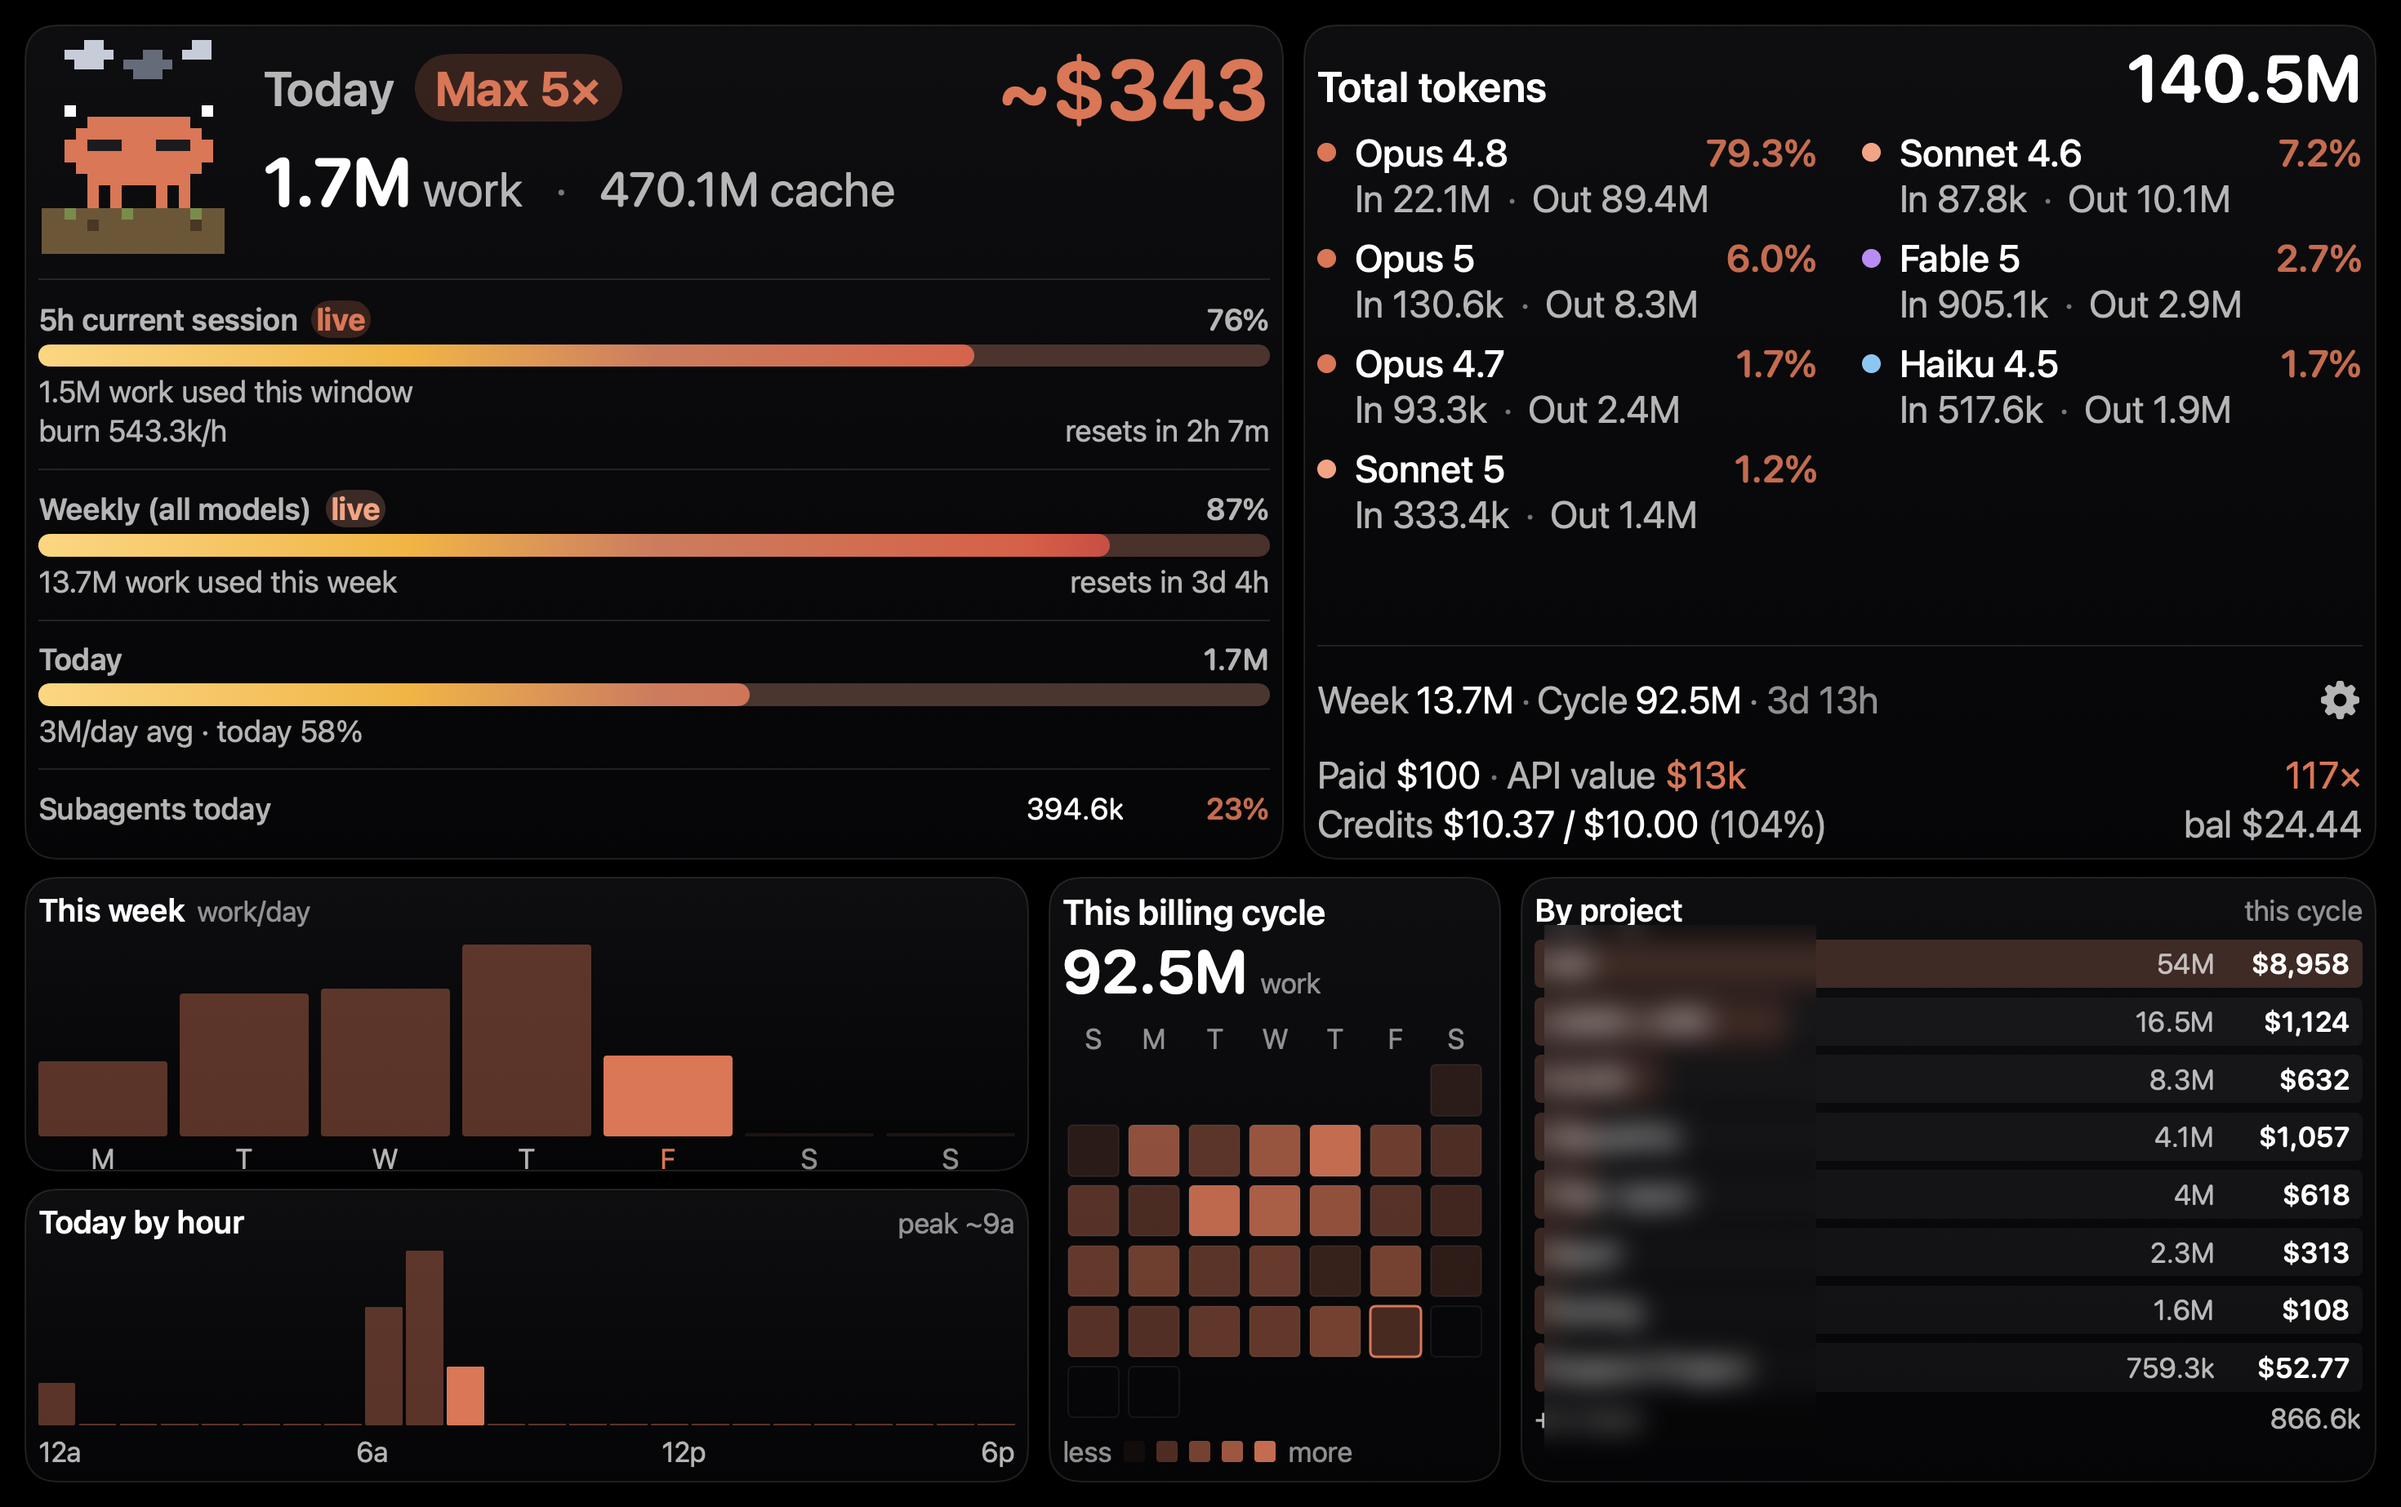
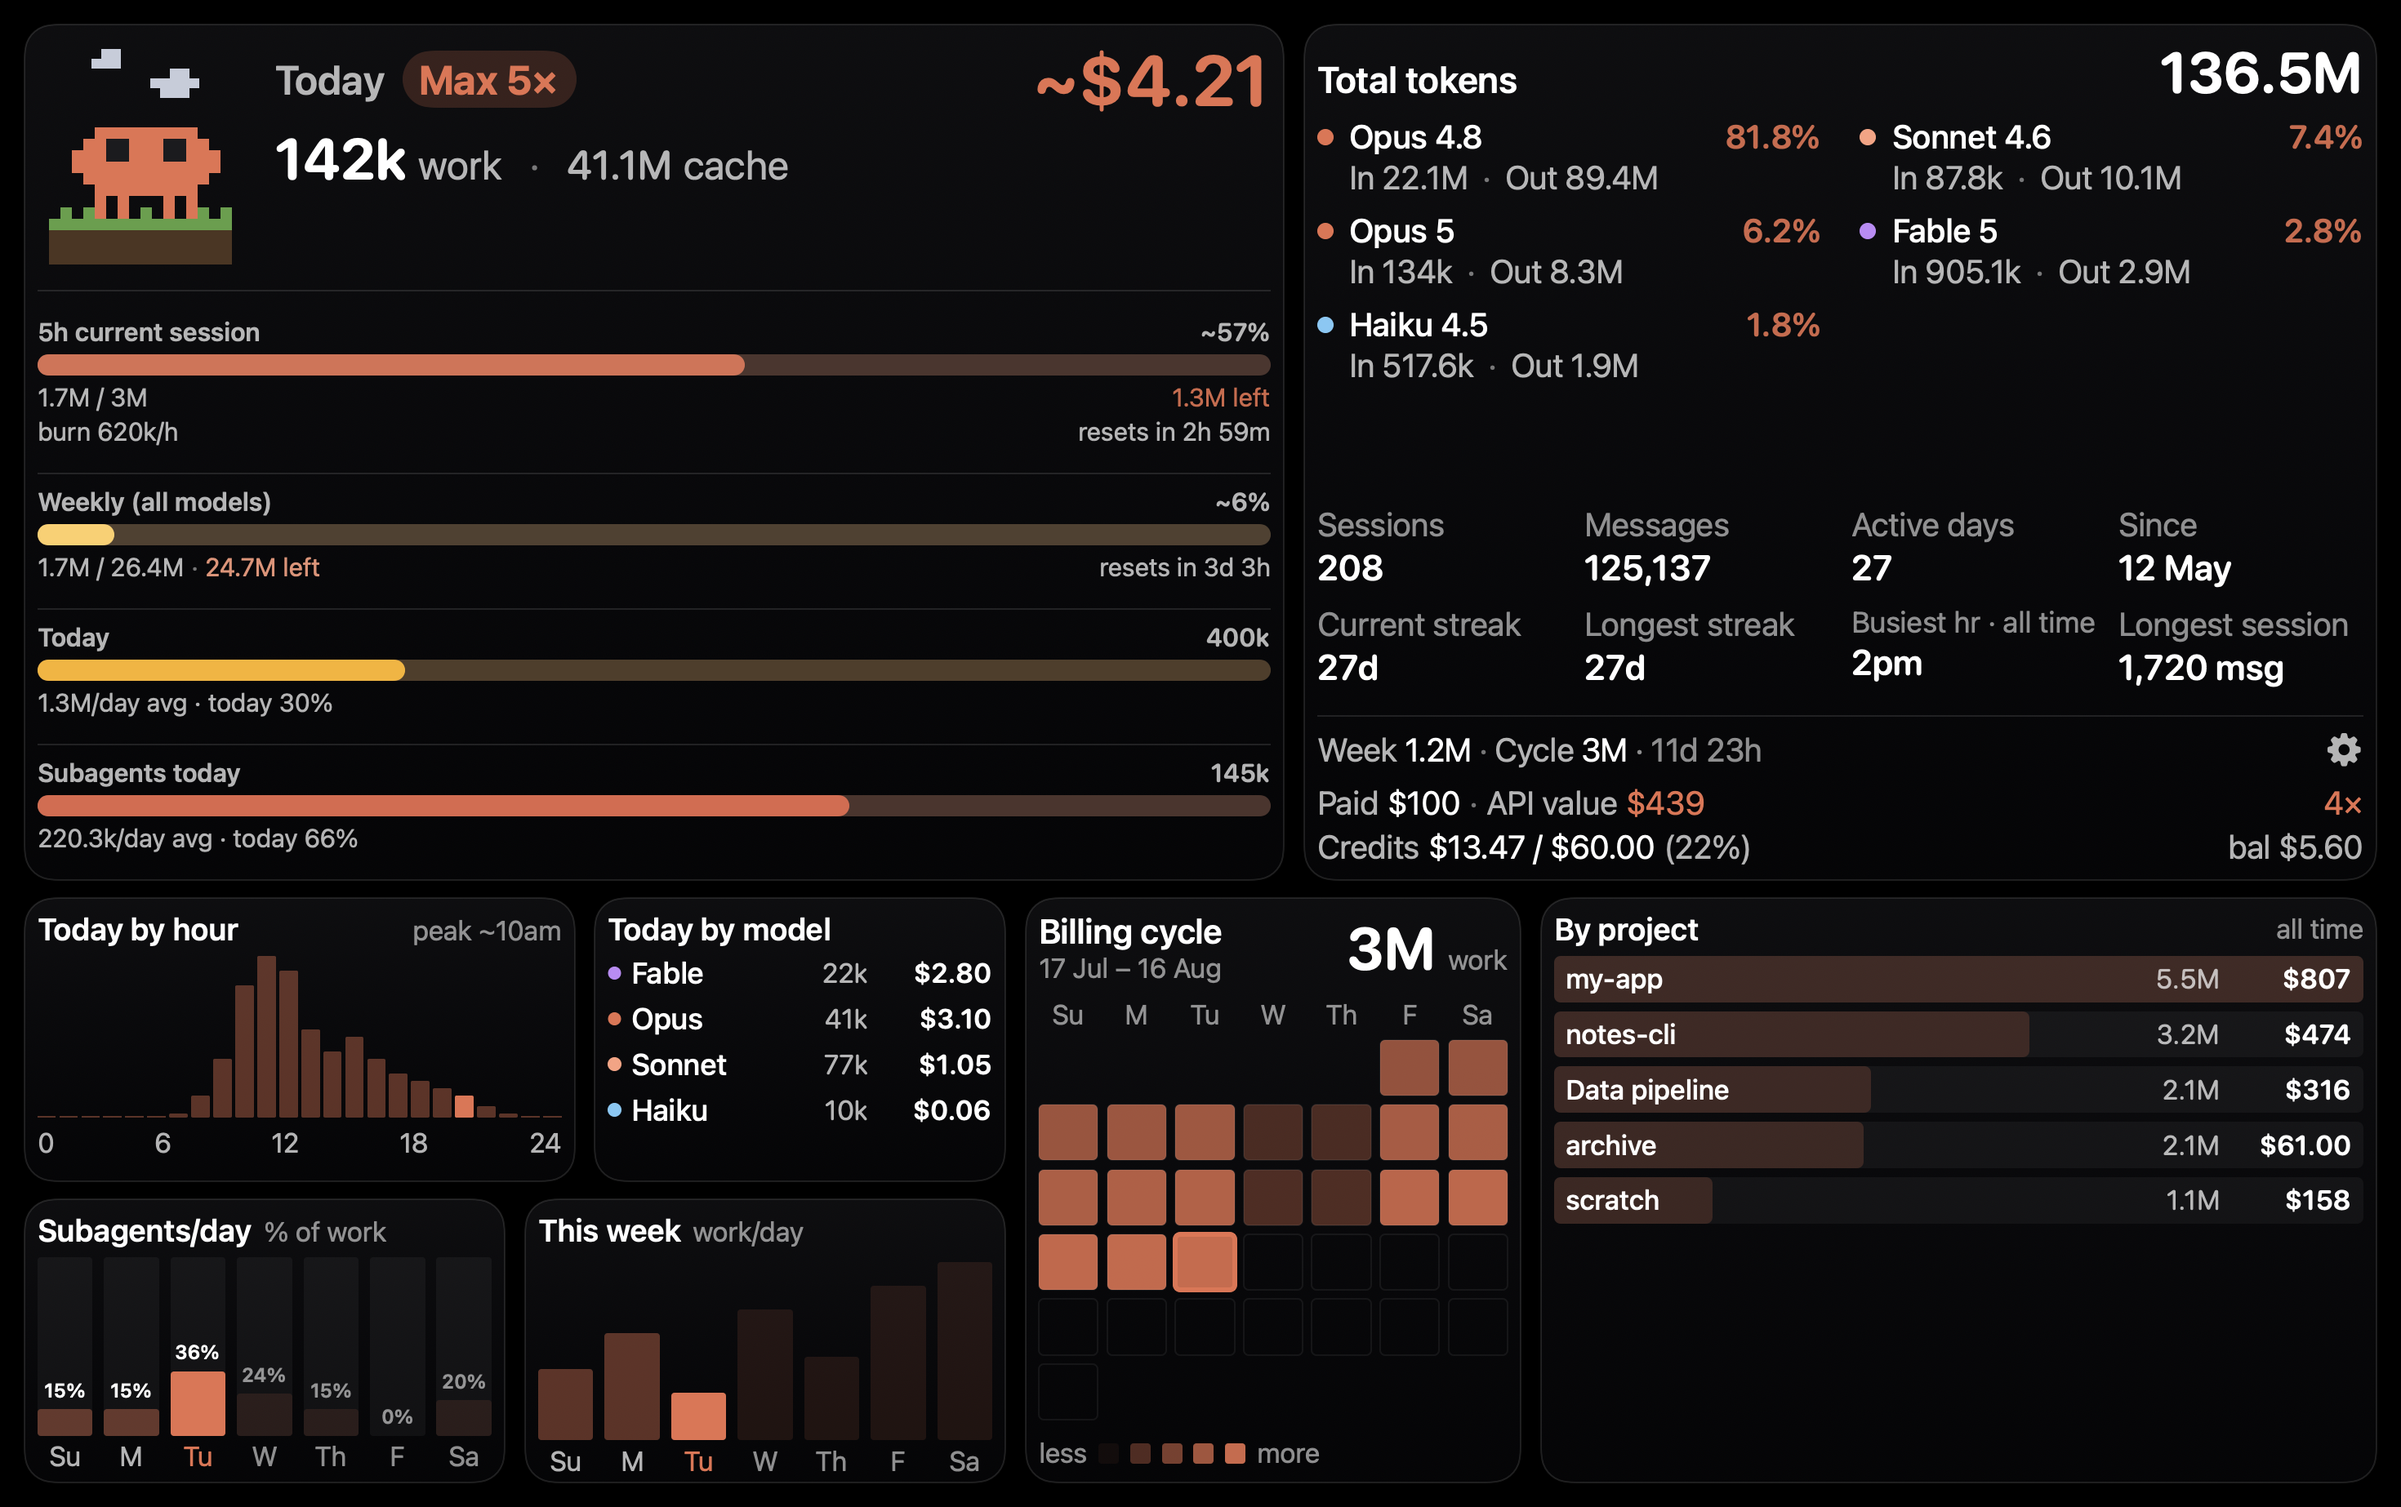
Refresh the README, and stop the preview fixture shipping real project names (#6)
The README had been wrong for three releases. "By project -- which projects
burned the cycle's tokens" describes a card that moved to lifetime in 0.11.0
and whose own header reads "all time". The screenshots predate the lifetime
KPI tiles, the Subagents today pace bar and the Subagents/day chart entirely,
and still show three cards in the lower row where there are now four.

Documents what actually landed since: the 30-day pace baseline, the widget's
own layout button, and -- the one that surprises people -- that This week and
Subagents/day run on a fixed Sunday-to-Saturday calendar week, deliberately
NOT the weekly-limit window sitting above them. Also calls out the three
Settings that change what the numbers mean rather than how they look: the
Work/Total basis (the same week reads 31% delegated on one and 11% on the
other), Include subagent usage, and Count repeated log lines.

Three fixes to loadSampleForPreview, all found by looking at the render
rather than the code:

Real project names. The fixture hard-coded four of my own directories, and
they are rendered into every screenshot and every claude.ai/design import.
The committed dashboard.png had them blurred by hand, which is the tell --
the data should never have carried them. Generic now.

"By project: no usage recorded yet". The fixture set cycleByProject but never
allTimeByProject, and ProjectBreakdownView reads the latter. So every
non-CLAUDEPET_REAL render showed an empty panel -- the one state a layout
[…]

diff --git a/Sources/ClaudePetCore/MetricsStore.swift b/Sources/ClaudePetCore/MetricsStore.swift
@@ -1464,10 +1464,14 @@ public final class MetricsStore {
         // Split that same total across plausible projects; the last one absorbs the rounding
         // remainder so the list sums to `cycle` to the token, as the real one does.
         var remWork = cycle.workTokens, remTotal = cycle.totalTokens, remCost = cycle.costUSD
-        let shares: [(String, Double)] = [("/Users/you/ClaudePet", 0.46),
-                                          ("/Users/you/Desktop/AAI", 0.27),
-                                          ("/Users/you/Desktop/LiDAR + HPE", 0.18),
-                                          ("/Users/you/pookie-gym", 0.09)]
+        // Generic names on purpose. These are shipped in every build and rendered into the README's
+        // screenshots, so they must not be anyone's actual projects. "Data pipeline" keeps a space
+        // and a capital, which is what `ProjectKey`'s lossy folder encoding mangles — worth keeping
+        // one of those in the fixture.
+        let shares: [(String, Double)] = [("/Users/you/my-app", 0.46),
+                                          ("/Users/you/Desktop/notes-cli", 0.27),
+                                          ("/Users/you/Desktop/Data pipeline", 0.18),
+                                          ("/Users/you/scratch", 0.09)]
         cycleByProject = shares.enumerated().map { i, share in
             let isLast = i == shares.count - 1
             let w = isLast ? remWork : Int(Double(cycle.workTokens) * share.1)
@@ -1476,6 +1480,16 @@ public final class MetricsStore {
             remWork -= w; remTotal -= t; remCost -= c
             return ProjectTotal(path: share.0, workTokens: w, totalTokens: t, costUSD: c)
         }
+        // `ProjectBreakdownView` reads the LIFETIME split, not the cycle one, so without this the
+        // sample rendered a card reading "no usage recorded yet" — an empty panel in every preview,
+        // which is exactly the state a layout check can't learn anything from. ~4× the cycle, and one
+        // extra project that predates it, so the "+N more" row has something to fold.
+        allTimeByProject = (cycleByProject.map {
+            ProjectTotal(path: $0.path, workTokens: $0.workTokens * 4,
+                         totalTokens: $0.totalTokens * 4, costUSD: $0.costUSD * 4)
+        } + [ProjectTotal(path: "/Users/you/Desktop/archive", workTokens: 2_100_000,
+                          totalTokens: 402_000_000, costUSD: 61)])
+            .sorted { $0.totalTokens > $1.totalTokens }
         monthlyPrice = 100; creditSpent = 13.47; creditLimit = 60; creditBalance = 5.60
         todayByModel = [
             ModelTotal(family: .fable,  workTokens: 22_000, totalTokens: 9_000_000,  costUSD: 2.80),
@@ -1494,7 +1508,7 @@ public final class MetricsStore {
         // carried one, so `SubagentPaceView` and `SubagentShareChart` both rendered as "no data" in
         // every preview — the two views hardest to check by reading the code were the two the sample
         // couldn't exercise.
-        let side = [90_000, 135_000, 0, 260_000, 105_000, 190_000, 300_000]
+        var side = [90_000, 135_000, 145_000, 260_000, 105_000, 190_000, 300_000]
         weekDaily = (0..<7).map { i in
             DayTotal(date: now.addingTimeInterval(Double(i - 6) * 86_400),
                      workTokens: work[i], totalTokens: work[i] * 200, costUSD: Double(work[i]) / 7000,
@@ -1509,6 +1523,12 @@ public final class MetricsStore {
         let weekdayToday = cal.component(.weekday, from: todayMidnight)
         let calWeekStart = cal.date(byAdding: .day, value: -(weekdayToday - 1), to: todayMidnight)
             ?? todayMidnight
+        // One day with no delegation at all, so a preview shows the "0%" state next to the "–" one —
+        // they mean different things (ran turns but delegated none, versus nothing logged) and the
+        // chart is the only place that distinction is visible. Placed three days off today so it can
+        // never land on the current slot, which would render "Subagents today: 0" as the sample's
+        // resting state; `weekdayToday` is 1-based, hence the -1.
+        side[((weekdayToday - 1) + 3) % 7] = 0
         calendarWeekDaily = (0..<7).map { i in
             let d = cal.date(byAdding: .day, value: i, to: calWeekStart) ?? calWeekStart
             return DayTotal(date: d, workTokens: work[i], totalTokens: work[i] * 200,

diff --git a/README.md b/README.md
@@ -8,7 +8,7 @@ The pet's design is an original code-drawn homage to **Clawd**, the Claude Code 
 (Anthropic) — no artwork assets are copied or bundled.
 
 <p align="center">
-  <img src="docs/dashboard.png" width="820" alt="ClaudePet dashboard — limits, models, billing cycle calendar and per-project usage">
+  <img src="docs/dashboard.png" width="820" alt="ClaudePet dashboard — limits, lifetime stats, subagent share, billing cycle calendar and per-project usage">
 </p>
 
 <p align="center">
@@ -25,15 +25,24 @@ The pet's design is an original code-drawn homage to **Clawd**, the Claude Code 
 - **5-hour session** — a gauge toward your limit (live from Claude's real numbers when available),
   burn rate, and a reset countdown.
 - **Weekly (all models)** — your 7-day usage with its own reset countdown.
-- **Today's pace** against your usual day, **by model**, **this week** per day, and **today by hour**.
+- **Today's pace** against your usual day — the average of your last 30 days that had any usage, so
+  it doesn't go blank every time the weekly limit resets.
+- **By model**, **this week** per day, and **today by hour**.
 - Week & cycle totals with a billing line.
 
 **In the dashboard** (the ⤢ button, or a real full-screen window)
 
-- Claude Code's own lifetime **`/stats` total**, with each model's share and in/out split.
+- Claude Code's own lifetime **`/stats` total**, with each model's share and in/out split, plus
+  lifetime **KPI tiles** — sessions, messages, active days, current and longest streak, busiest hour.
 - **This billing cycle as a calendar** — one shaded cell per day, denser where you worked harder.
-- **By project** — which projects burned the cycle's tokens, resolved from each turn's own working
-  directory rather than guessed from folder names.
+- **Subagents today** as a pace bar, and **Subagents/day** as each day's delegated share on a fixed
+  0–100% axis — turns run by the Task tool, including workflow agents.
+- **By project** — which projects burned your tokens **all time**, resolved from each turn's own
+  working directory rather than guessed from folder names.
+
+> **This week** and **Subagents/day** run on a fixed **Sunday-to-Saturday calendar week**, on purpose
+> — so a day's tokens always land in exactly one bar. That's deliberately *not* the weekly-limit
+> window above them, which keeps its own real reset schedule (e.g. Monday 3 PM).
 
 **The pet reads two numbers at once**
 
@@ -60,7 +69,8 @@ its position. Enable **Launch at login** in Settings to keep it around.
 
 - **Drag** the pet to reposition. Hover to reveal resize handles.
 - Click the **⚙ gear** for Settings.
-- Two layouts (Settings → Appearance): **tall** single-column and **wide** two-column.
+- Two layouts — **tall** single-column and **wide** two-column. Switch them from the widget's own
+  layout button, or Settings → Appearance.
 - Click **⤢** to open the **dashboard** — a real resizable window that goes full screen (⌃⌘F).
 - Hover the gauges/numbers for tooltips explaining each value.
 
@@ -92,8 +102,20 @@ touches your token or the network.
 
 Budget source (auto-peak / plan / custom), tokens-vs-US$ unit, live-data toggle (reads
 [claude-statusline](https://github.com/andrewii23/claude-statusline)'s local cache when present
-for Claude's *real* numbers), manual calibration, billing-this-cycle, widget size, layout,
-launch-at-login, and an editable pricing table.
+for Claude's *real* numbers), manual calibration, weekly reset day & time, billing-this-cycle,
+widget size, layout, launch-at-login, and an editable pricing table.
+
+Three that change what the numbers *mean*, not just how they look:
+
+- **Count tokens as — Work or Total.** Work is input + output; Total also counts cache reads and
+  writes, which under always-on prompt caching are the overwhelming majority. The same week can read
+  31% delegated on Work and 11% on Total, because a subagent's short-lived context re-reads far less
+  cache than the main conversation does.
+- **Include subagent usage.** Off removes every Task-tool and workflow-agent turn from every figure
+  in the app.
+- **Count repeated log lines (match `/stats`).** Transcripts re-log one API response several times;
+  by default ClaudePet keeps the first per `message.id`. Turning this on counts every line instead,
+  which is what Claude Code's own `/stats` does — and roughly triples the totals.
 
 ## Privacy
 

diff --git a/CHANGELOG.md b/CHANGELOG.md
@@ -3,6 +3,27 @@
 All notable changes to ClaudePet are documented here. Format loosely follows
 [Keep a Changelog](https://keepachangelog.com); versions are dated on release.
 
+## [Unreleased]
+
+### Fixed
+- **README said "By project — which projects burned the cycle's tokens".** That card moved to
+  lifetime in 0.11.0 and its own header reads "all time"; the README had been wrong for three
+  releases. Also documents the lifetime KPI tiles, the Subagents today / Subagents/day pair, the
+  widget's own layout button, the 30-day pace baseline, and the fact that **This week** and
+  **Subagents/day** run on a fixed Sunday-to-Saturday calendar week rather than the weekly-limit
+  window. Screenshots regenerated — the old ones predate all of it.
+- **The preview fixture shipped real project names.** `loadSampleForPreview` hard-coded four of the
+  developer's own directories, which are rendered into every screenshot and into `claude.ai/design`
+  imports. Generic now.
+- **The preview's "By project" card read "no usage recorded yet".** The fixture set
+  `cycleByProject` but never `allTimeByProject`, which is what `ProjectBreakdownView` actually
+  reads — so every non-`CLAUDEPET_REAL` render showed an empty panel, the one state a layout check
+  can learn nothing from.
+- **The preview's "Subagents today" bar read 0.** The fixture's one no-delegation day was pinned to
+  a fixed index, so it landed on "today" whenever the sample was rendered on that weekday. It is now
+  placed relative to the current day, keeping the "0%" vs "–" distinction visible without making
+  zero the resting state.
+
 ## [0.13.0] — 2026-08-03
 
 ### Changed
